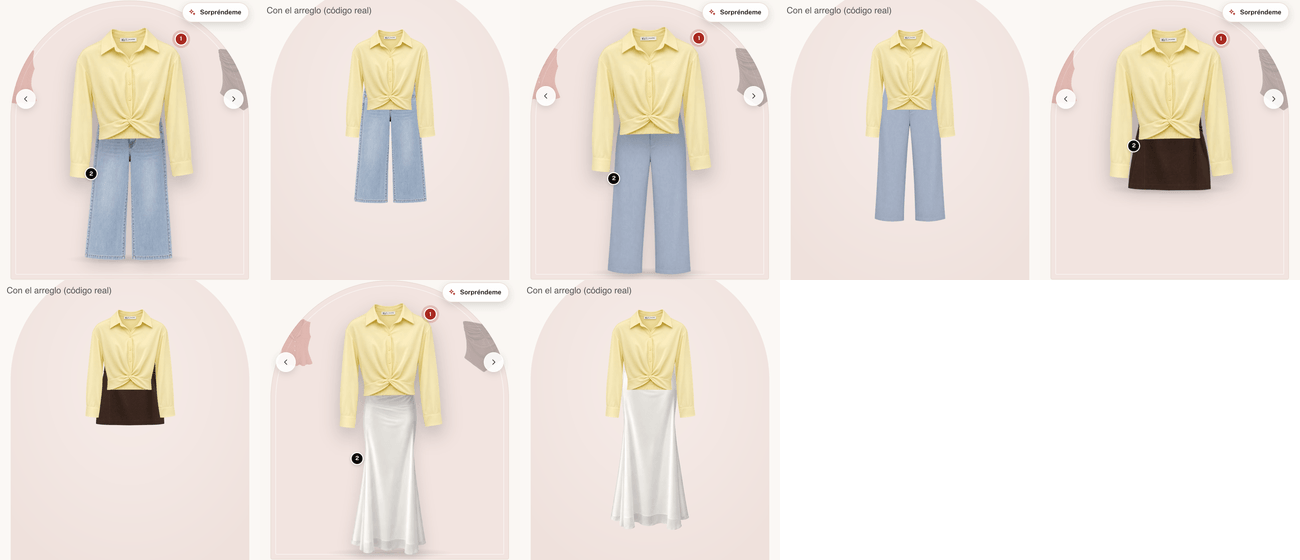
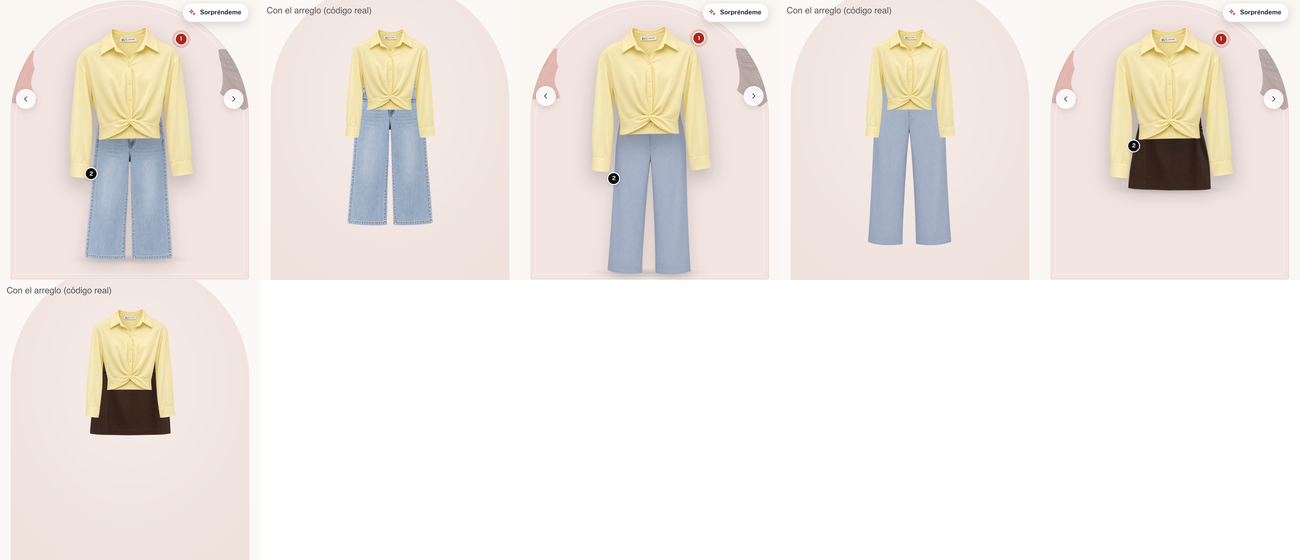
fix(probador): el pantalón tiene la cintura del cuerpo cuando la blusa se mide por su pecho
Felipe lo seguía viendo igual: la blusa se achicaba, pero el bajo angosto del
nudo arrastraba la pretina del jean al mínimo y el jean se achicaba con ella
(proporción 1,70 → 1,53). Con la blusa medida por su pecho, la pretina es la
cintura estándar (36 cm) y la blusa cuelga encima: 1,70 → 1,31. ADR-0705.

diff --git a/apps/tienda/lib/union-prendas.ts b/apps/tienda/lib/union-prendas.ts
@@ -443,7 +443,7 @@ export function cajaDeArribaAjustada(arriba: { caja: Caja; medida: MedidaDelReco
  * (`falda`) además no se ve más de ×1,05 el ancho de la blusa, sin que su pretina baje del 92 % de ese bajo.
  */
 export function cajaDeAbajoUnida(
-  arriba: { caja: Caja; medida: MedidaDelRecorte | null | undefined; metida: boolean },
+  arriba: { caja: Caja; medida: MedidaDelRecorte | null | undefined; metida: boolean; porElPecho?: boolean },
   abajo: { proporcion: number; medida: MedidaDelRecorte | null | undefined; falda?: boolean },
 ): Caja | null {
   const a = arriba.medida;
@@ -454,7 +454,11 @@ export function cajaDeAbajoUnida(
   // El ancho del bajo es el mayor entre el de su última fila y el de toda su zona del bajo (ver `anchoDelBajo`).
   const bordeAncho = Math.max(a.borde, anchoDelBajo(a) ?? 0);
   const pretinaMinima = estandar * (1 - HOLGURA_DE_LA_UNION);
-  const pretinaSegunElBorde = Math.min(Math.max(arriba.caja.w * bordeAncho, pretinaMinima), estandar * (1 + HOLGURA_DE_LA_UNION));
+  // ADR-0705: si la de arriba ya se dimensionó por su pecho, el cuerpo manda: la pretina es la cintura estándar y NO sigue al bajo de la blusa (un nudo
+  // angosta ese bajo y arrastraba al pantalón: la blusa se achicaba y el jean con ella, y la proporción no cambiaba). La blusa cuelga encima, como en una persona.
+  const pretinaSegunElBorde = arriba.porElPecho
+    ? estandar
+    : Math.min(Math.max(arriba.caja.w * bordeAncho, pretinaMinima), estandar * (1 + HOLGURA_DE_LA_UNION));
   // Una falda, además, no se ve mucho más ancha que la blusa: el tope la encoge, pero su pretina no baja del 92 % del bajo (ni de la cintura mínima).
   const pretinaPx = abajo.falda
     ? Math.max(

diff --git a/apps/tienda/lib/union-prendas.test.ts b/apps/tienda/lib/union-prendas.test.ts
@@ -668,3 +668,18 @@ describe("cajaPorElPecho: una blusa se dimensiona por su pecho", () => {
     expect(cajaPorElPecho({ caja, medida: { ...medida, anchos: undefined }, ia })).toBeNull();
   });
 });
+
+describe("cajaDeAbajoUnida con la blusa medida por su pecho (ADR-0705)", () => {
+  it("la pretina es la cintura del cuerpo y ya no sigue al bajo angosto de una blusa con nudo", () => {
+    const conNudo = (x: number, y: number) => (y < 75 ? Math.abs(x - 50) < 25 : Math.abs(x - 50) < 12.5);
+    const arriba = { caja: { x: 145, y: 44, w: 100, h: 120 }, medida: medirRecorte(imagen(100, 100, conNudo), 100, 100), metida: false };
+    const falda = (x: number, y: number) => Math.abs(x - 50) < 30 + (y / 60) * 20;
+    const abajo = { proporcion: 100 / 60, medida: medirRecorte(imagen(100, 60, falda), 100, 60) };
+    const porElBajo = cajaDeAbajoUnida(arriba, abajo)!;
+    const porElCuerpo = cajaDeAbajoUnida({ ...arriba, porElPecho: true }, abajo)!;
+    const pretinaCm = (c: { w: number }) => (c.w * abajo.medida.pretina!) / PX_POR_CM;
+    // El bajo angosto arrastraba la pretina al mínimo; con el pecho manda la cintura estándar.
+    expect(pretinaCm(porElBajo)).toBeLessThan(ANCHO_ESTANDAR_DE_LA_UNION);
+    expect(pretinaCm(porElCuerpo)).toBeCloseTo(ANCHO_ESTANDAR_DE_LA_UNION, 0);
+  });
+});

diff --git a/apps/tienda/components/probador/useUnionDeLaFigura.ts b/apps/tienda/components/probador/useUnionDeLaFigura.ts
@@ -226,7 +226,7 @@ export function useUnionDeLaFigura<T extends PiezaDeLaFigura>(
   const unida =
     arribaFinal && abajo && urlArriba && urlAbajo && completa
       ? cajaDeAbajoUnida(
-          { caja: arribaFinal.caja, medida: medidas.get(urlArriba), metida: arribaFinal.p.metida },
+          { caja: arribaFinal.caja, medida: medidas.get(urlArriba), metida: arribaFinal.p.metida, porElPecho: porElPecho !== null },
           { proporcion: abajo.c.foto.proporcion, medida: medidas.get(urlAbajo), falda: abajo.p.falda },
         )
       : null;

diff --git a/docs/bitacora/2026-11-26-probador-medida-por-axila.md b/docs/bitacora/2026-11-26-probador-medida-por-axila.md
@@ -1,4 +1,4 @@
 ## 2026-11-26 (El probador ya no agranda las blusas con nudo: las mide por el pecho)
-Qué hice: la prenda de arriba del probador se dimensiona por el ancho de su pecho bajo las axilas, no por su borde de abajo; las axilas las dice una IA sola, cada 10 minutos, para cada recorte nuevo (`/api/fotos/medir-recortes`, `retail.anotar_medida_ia`), y la tienda mide el ancho en esa fila (ADR-0705). La «Camisa Dalia» (CMS-0092) dejaba de agrandarse 35 %.
+Qué hice: la prenda de arriba del probador se dimensiona por el ancho de su pecho bajo las axilas, no por su borde de abajo; las axilas las dice una IA sola, cada 10 minutos, para cada recorte nuevo (`/api/fotos/medir-recortes`, `retail.anotar_medida_ia`), y la tienda mide el ancho en esa fila (ADR-0705). La «Camisa Dalia» (CMS-0092) dejaba de agrandarse 35 %; y el pantalón ya no sigue al bajo angosto de esa blusa (tiene la cintura del cuerpo): la blusa pasa de 1,70 a 1,31 veces la cintura del jean.
 Por qué así: el nudo junta el bajo y el probador creía que la blusa era chica; el pecho no cambia con el nudo. Probado con 26 recortes reales: la IA acertó el tipo de los 26 por US$0,0008 cada uno. Sin la medida, todo sigue como hoy.
 Felipe se lleva: pegar la migración 20261126153000 en producción (dos partes) y verlo en la tienda; un outfit con falda corta queda más chico que hoy (su tamaño real), y que la figura crezca para llenar el arco queda como decisión aparte.
